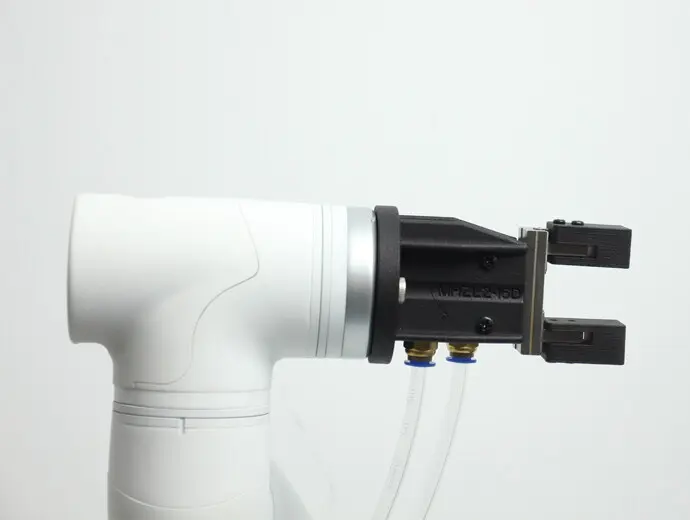
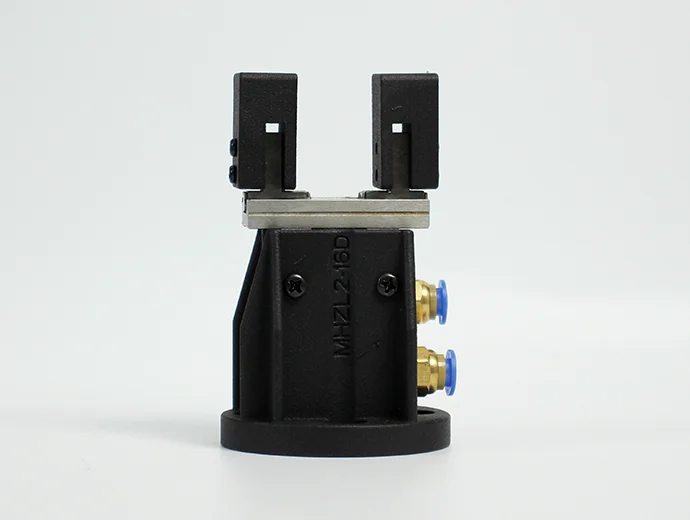
更新到1.4.1完成

Changed region(s): [[0.0913, 0.1231, 0.913, 1.0], [0.0, 0.9538, 0.0304, 1.0]]

diff --git a/1-ProductIntroduction/1.4-AccessoriesTools/1.4.1-Gripper/3-PneumaticGripper.md b/1-ProductIntroduction/1.4-AccessoriesTools/1.4.1-Gripper/3-PneumaticGripper.md
@@ -1,70 +1,65 @@
 # **气动夹爪**
 
-**兼容型号:** myCobot 320, myCobot Pro 600
+> **兼容型号：** myCobot 320, myCobot Pro 600
 
-**产品图标**
+## **产品图标**
 
-<img src="../../../resources/1-ProductIntroduction/1.4/1.4.1-Gripper/3-PneumaticGripper/PneumaticGripper.jpg" alt="img-2" width="800" height="auto" /> <br>
+<img src="../../../resources/1-ProductIntroduction/1.4/1.4.1-Gripper/3-PneumaticGripper/气动夹爪1.jpg" alt="img-2" width="800" height="auto" /> <br>
 
-**Specifications:**
+## 规格
 
-| **name**                     | **mycobot320 pneumatic gripper**                       |
-| ---------------------------- | ------------------------------------------------------ |
-| Model model                  | myCobotPro_Gripper_Air_10                              |
-| craft                        | Metal + 7500 Nylon                                     |
-| Clamping rangeClamp size     | 0-8mm                                                  |
-| Clamp force                  | Outer diameter 34N Inner diameter 45N                  |
-| Repeatability precision      | ±0.01mm                                                |
-| Lifetime                     | one year                                               |
-| drive mode drive             | pneumatic                                              |
-| transfer method              | Piston cylinder                                        |
-| size                         | 67.3×38×23.6mm                                         |
-| weightweight                 | 180g                                                   |
-| Fixed method Fixed           | screw fixed                                            |
-| Use environment requirements | Temperature and pressure                               |
-| control interface control    | I/O control                                            |
-| Applicable equipment         | ER myCobot 320 M5 ER myCobot 320 Pi ER myCobot Pro 600 |
+| **名称**     | **mycobot320 气动夹爪**                                |
+| :----------- | :----------------------------------------------------- |
+| 模型         | myCobotPro_Gripper_Air_10                              |
+| 材料         | 金属 + 7500 尼龙                                       |
+| 夹取范围     | 0-8mm                                                  |
+| 夹紧力       | 外径 34N 内径 45N                                      |
+| 重复性精度   | ±0.01mm                                                |
+| 使用寿命     | 一年                                                   |
+| 驱动模式     | 气动                                                   |
+| 传输方式     | 活塞缸                                                 |
+| 尺寸         | 67.3×38×23.6mm                                         |
+| 重量         | 180g                                                   |
+| 固定方法     | 螺丝固定                                               |
+| 使用环境要求 | 温度和压力                                             |
+| 控制接口     | 输入/输出控制                                          |
+| 适用设备     | ER myCobot 320 M5 ER myCobot 320 Pi ER myCobot Pro 600 |
 
-## Use for Gripping Objects
+## 用于抓取物体
 
-**Introduction**
+**引言**
 
-- Pneumatic grippers, also known as pneumatic fingers or pneumatic grippers, are actuators that use compressed air as power to grip or grab workpieces. It is small in size, light in weight, compact in appearance, capable of single- and two-way grabbing, automatic centering, high repeatability, and automatic control of the magnetic switch.
+- 气动夹爪又称气动手指或气动夹钳，是一种利用压缩空气作为动力抓取或抓取工件的执行器。它体积小、重量轻、外形紧凑，能够实现单向和双向抓取、自动对中、高重复精度和自动控制磁性开关。
 
-- Pneumatic gripper set includes gripper flange, air pump, φ8 air pipe, φ6 air pipe, φ8-6 quick connector, solenoid valve and cables. Its main function is to replace human grasping work, which can effectively improve production efficiency and work safety. An external suction pump is required.
+- 气动夹爪套件包括夹爪法兰、气泵、φ8 气管、φ6 气管、φ8-6 快速接头、电磁阀和电缆。其主要功能是代替人力抓取工作，可有效提高生产效率和工作安全性。需要外接吸气泵。
 
-**working principle**
+**工作原理**
 
-- Single piston: the axis drives the crank, and the air claw is driven by the piston to open and close. A corresponding crank groove is respectively arranged on the two claw pieces. In order to reduce the frictional resistance, the claw piece and the body are connected by a steel ball slide rail structure.
+- 单活塞：轴驱动曲柄，气爪由活塞驱动开合。两个爪片上分别布置有相应的曲柄槽。为减小摩擦阻力，爪片与机身之间采用钢珠滑轨结构连接。
 
-- Double piston: It is operated by two pistons, and each piston is connected with a pneumatic finger by a roller and a double crank to form a special drive unit. Realize that the pneumatic fingers always move axially to the center, and each finger cannot move independently. Parallel jaw cylinder If the finger moves in the opposite direction, the previously compressed piston is in the exhausted state, while the other piston is in the compressed state.
+- 双活塞：由两个活塞控制，每个活塞通过一个滚轮和一个双曲柄与一个气动指连接，形成一个特殊的驱动单元。需要注意的是，气动指始终向中心轴向移动，每个气动指不能独立移动。
 
-**Applicable object**
+- 平行钳形气缸：如果气动指朝相反方向移动，则先前被压缩的活塞处于排气状态，而另一个活塞处于压缩状态。
 
-- The volume is smaller than the clamping stroke
+**适用对象**
 
-- The weight is less than the maximum clamping weight
+- 体积小于夹紧行程
 
-- Custom fingertips can expand more items
+- 重量小于最大夹紧重量
 
-## Mall link
+- 自定义指尖可扩展更多用法
 
-- [Taobao](https://shop504055678.taobao.com)
+## 购买链接
+
+- [淘宝](https://shop504055678.taobao.com)
 - [shopify](https://shop.elephantrobotics.com/)
 
-<!-- - [Shopify](https://shop-elephantrobotics-com.translate.goog/collections/mycobot-pro-600/products/air-parallel-grippers-air-compressor?_x_tr_sl=auto&_x_tr_tl=zh-CN) -->
+## 如何使用
 
-## How to use
+1 安装夹具: <br>
 
-1 Installing the gripper: <br>
+<img src="../../../resources/1-ProductIntroduction/1.4/1.4.1-Gripper/3-PneumaticGripper/气动夹爪2.jpg" alt="img-2" width="400" height="auto" /> <br>
 
-<img src="../../../resources/1-ProductIntroduction/1.4/1.4.1-Gripper/3-PneumaticGripper/PneumaticGripper2.jpg" alt="img-2" width="400" height="auto" /> <br>
+<img src="../../../resources/1-ProductIntroduction/1.4/1.4.1-Gripper/3-PneumaticGripper/气动夹爪3.jpg" alt="img-2" width="400" height="auto" /> <br>
 
-<img src="../../../resources/1-ProductIntroduction/1.4/1.4.1-Gripper/3-PneumaticGripper/PneumaticGripper3.jpg" alt="img-2" width="400" height="auto" /> <br>
-
-<!-- 2 Development with SDK
--   [Blockly]()
--   [Python]()
--   [C++]() -->
-
-[← Accessories Tools Page](../1.4-AccessoriesTools.md#gripper) | [Next Page →](../1.4.1-Gripper/4-FlexibleGripper.md)
+[← 周边配件页](../README.md#gripper) | [下一页 →](../1.4.1-Gripper/4-FlexibleGripper.md)

diff --git a/1-ProductIntroduction/1.4-AccessoriesTools/1.4.1-Gripper/4-FlexibleGripper.md b/1-ProductIntroduction/1.4-AccessoriesTools/1.4.1-Gripper/4-FlexibleGripper.md
@@ -1,0 +1,80 @@
+# 柔性抓取器专业版
+
+> **兼容型号:** myCobot 320, myCobot Pro 600
+
+<img src="../../../resources/1-ProductIntroduction/1.4/1.4.1-Gripper/4-FlexibleGripper/柔性夹爪1.JPG" alt="img-1" width="800" height="auto" /> <br>
+
+## 规格
+
+**夹具**
+
+| **图片**     | <img src="../../../resources/1-ProductIntroduction/1.4/1.4.1-Gripper/4-FlexibleGripper/柔性夹爪2.JPG" alt="img-2" width="200" height="auto" /> |
+| :----------- | :--------------------------------------------------------------------------------------------------------------------------------------------- |
+| 材料         | 金属                                                                                                                                           |
+| 夹取范围     | 36-136mm                                                                                                                                       |
+| 夹紧力       | 垂直 600g 包裹 1080g                                                                                                                           |
+| 重复性精度   | 0.5 mm                                                                                                                                         |
+| 使用寿命     | 1 year                                                                                                                                         |
+| 驱动模式     | 气动                                                                                                                                           |
+| 变速箱模式   | 形变                                                                                                                                           |
+| 尺寸         | 170x128x195mm                                                                                                                                  |
+| 重量         | 365 grams                                                                                                                                      |
+| 固定方法     | 螺丝固定                                                                                                                                       |
+| 使用环境要求 | 温度和压力                                                                                                                                     |
+| 控制接口     | SAC40A 气动控制器                                                                                                                              |
+| 适用设备     | ER myCobot 320 series, ER myCobot Pro 600                                                                                                      |
+
+**控制器**
+
+| **图片**    | <img src="../../../resources/1-ProductIntroduction/1.4/1.4.1-Gripper/4-FlexibleGripper/气动控制器1.jpg" alt="img-2" width="200" height="auto"/>       |
+| :---------- | :---------------------------------------------------------------------------------------------------------------------------------------------------- |
+| 电源        | 24V 1.5A                                                                                                                                              |
+| 控制方式    | IO                                                                                                                                                    |
+| 气源压力    | > 0.4 MPA                                                                                                                                             |
+| 流量        | > 40 L/MIN                                                                                                                                            |
+| IO          | <img src="../../../resources/1-ProductIntroduction/1.4/1.4.1-Gripper/4-FlexibleGripper/气动控制器2.jpg" alt="img-3" width="100" height="auto" /> <br> |
+| Value State | IN1: HIGH & IN2: LOW = 关闭夹爪 <br> IN1: LOW & IN2: HIGH = 开启夹爪 <br> 注意 ⚠：使用 IO 控制时，确保将上述三档拨动开关设置在中间位置。             |
+| 船型开关    | 三档拨动开关                                                                                                                                          |
+| 正压        | 夹爪关闭                                                                                                                                              |
+| 负压        | 夹爪打开                                                                                                                                              |
+
+## 用于抓取物体
+
+**引言**
+
+- 传统的工业吸盘需要吸住材料的平面。在越来越多的工作条件下，吸盘表面很容易损坏面板或部件。触感柔软的抓手可捏住边缘，轻松抓住面板，不留痕迹，也不会损坏面板，确保产品表面不受破坏。提高成品率。
+
+- 柔性夹爪采用模块化设计，重量轻，可根据面板尺寸自由排列组合。
+
+- 传统油缸的夹紧力一般较大，且力难以控制。夹持面板的边缘容易受到挤压和翘曲。弹性夹爪的单指夹紧力精确可控，不会夹住易碎工件。
+
+**工作原理**
+
+- 软爪是一种创新的仿生软爪，由研究人员模仿海星的胳膊和腿的形状研制而成。软爪的 "手指 "由柔性高分子硅胶材料制成，可以通过充气弯曲变形。它能像海星一样自适应地覆盖目标物体，并能完成对特殊形状和易碎物体的柔性无损抓取。
+
+**适用对象**
+
+- 合理大小范围内的任何形状的物体
+
+## 购买链接:
+
+- [淘宝](https://shop504055678.taobao.com)
+- [shopify](https://shop.elephantrobotics.com/)
+
+## 如何使用
+
+1 安装: <br>
+
+- 气动回路连接和压力调整：在连接到软机械手柄之前，先调节正压（出口可暂时用指尖堵住，确保正压严格小于 100KPA，以免手指受伤）。
+
+- 用于连接和调节气动回路：首先，在连接软质机械手柄之前设定正压。用指尖暂时堵住出气口，防止空气溢出，确保正压严格控制在 100KPA 以下，以免手指受伤。
+
+- **连接气源**：将气源连接至端口 6（入口），确保压力高于 0.4MPA 且流量超过 40 L/min。
+- **连接软机械手柄**：将软机械手柄连接到端口 4（出口）。
+- **通电**：为连接 5 供电。
+- **调整正压**：使用切换开关选择正压。根据压力表调节调节器，直至达到所需压力。
+- **切换至负压**：负压调节时，拉起调节器盖，旋转至设定值，然后向下按以锁定。
+
+特别提醒 ⚠：关于压力保持，正压和负压都可以在启动 0.5 秒后保持，使机械抓手保持其预设压力。这种方法非常节能，特别是因为持续保持负压会消耗更多空气。此外，它还能防止在意外断电或断气的情况下失去对物体的抓力，确保操作的可靠性。
+
+[← 周边配件页](../README.md#gripper)

diff --git a/1-ProductIntroduction/1.4-AccessoriesTools/1.4.1-Gripper/2-ElectricGripper.md b/1-ProductIntroduction/1.4-AccessoriesTools/1.4.1-Gripper/2-ElectricGripper.md
@@ -1,18 +1,16 @@
-# 电动夹爪
+# **电动夹爪**
 
 > **兼容型号：** myCobot 320、myCobot Pro 600
-
-## 产品图标
 
 <img src="../../../resources/1-ProductIntroduction/1.4/1.4.1-Gripper/2-ElectricGripper/电动夹爪1.jpg" alt="img-1" width="800" height=“auto” />
 
 ## 规格
 
 | **名称**     | **mycobotpro 电动夹爪**             |
-| ------------ | ----------------------------------- |
+| :----------- | :---------------------------------- |
 | 模型         | myCobotPro_Gripper_PGE_8            |
 | 材料         | 金属 + 7500 尼龙                    |
-| 夹爪范围夹   | 0-14mm                              |
+| 夹取范围     | 0-14mm                              |
 | 夹紧力       | 2-5N                                |
 | 重复性精度   | 1mm                                 |
 | 使用寿命     | 一年                                |
@@ -54,7 +52,7 @@
 **运行环境**
 
 | **周围环境** | **图解说明** |
-| ------------ | ------------ |
+| :----------- | :----------- |
 | 规程         | RS-485       |
 | 工作电压     | 24V          |
 | 额定电流     | 0.25A        |
@@ -76,4 +74,4 @@
 - 对于电动机械手，将其插入顶部的 485 接口，如下图所示: <br>
   <img src="../../../resources/1-ProductIntroduction/1.4/1.4.1-Gripper/2-ElectricGripper/电动夹爪4.jpg" alt="img-2" width="480" height="auto" /> <br>
 
-[← 周边配件页面](../README.md#gripper) | [下一页 →](../1.4.1-Gripper/3-PneumaticGripper.md)
+[← 周边配件页](../README.md#gripper) | [下一页 →](../1.4.1-Gripper/3-PneumaticGripper.md)

diff --git a/1-ProductIntroduction/1.4-AccessoriesTools/1.4.1-Gripper/1-AdaptiveGripper.md b/1-ProductIntroduction/1.4-AccessoriesTools/1.4.1-Gripper/1-AdaptiveGripper.md
@@ -1,4 +1,4 @@
-# myCobotPro 自适应夹爪
+# ** myCobotPro 自适应夹爪**
 
 > **兼容型号：** myCobot 320、myCobot Pro 600
 
@@ -9,7 +9,7 @@
 ## 规格
 
 | **名称**     | **myCobotPro 自适应抓取器 黑白款**      |
-| ------------ | --------------------------------------- |
+| :----------- | :-------------------------------------- |
 | 材料         | 光敏树脂 + 尼龙                         |
 | 工艺技术     | 3D 打印                                 |
 | 夹取范围     | 0-90 mm                                 |
@@ -61,5 +61,5 @@
 
 ---
 
-[← 周边配件页面](../README.md#gripper)
+[← 周边配件页](../README.md#gripper)
 | [下一页 →](../1.4.1-Gripper/2-ElectricGripper.md)

diff --git a/1-ProductIntroduction/1.4-AccessoriesTools/README.md b/1-ProductIntroduction/1.4-AccessoriesTools/README.md
@@ -1,6 +1,6 @@
 # 周边配件
 
-![周边配件](../../resources/1-ProductIntroduction/1.4-周边配件/1.4周边配件.jpg)
+![周边配件](../../resources/1-ProductIntroduction/1.4/1.4周边配件.jpg)
 
 ## 设计理念
 
